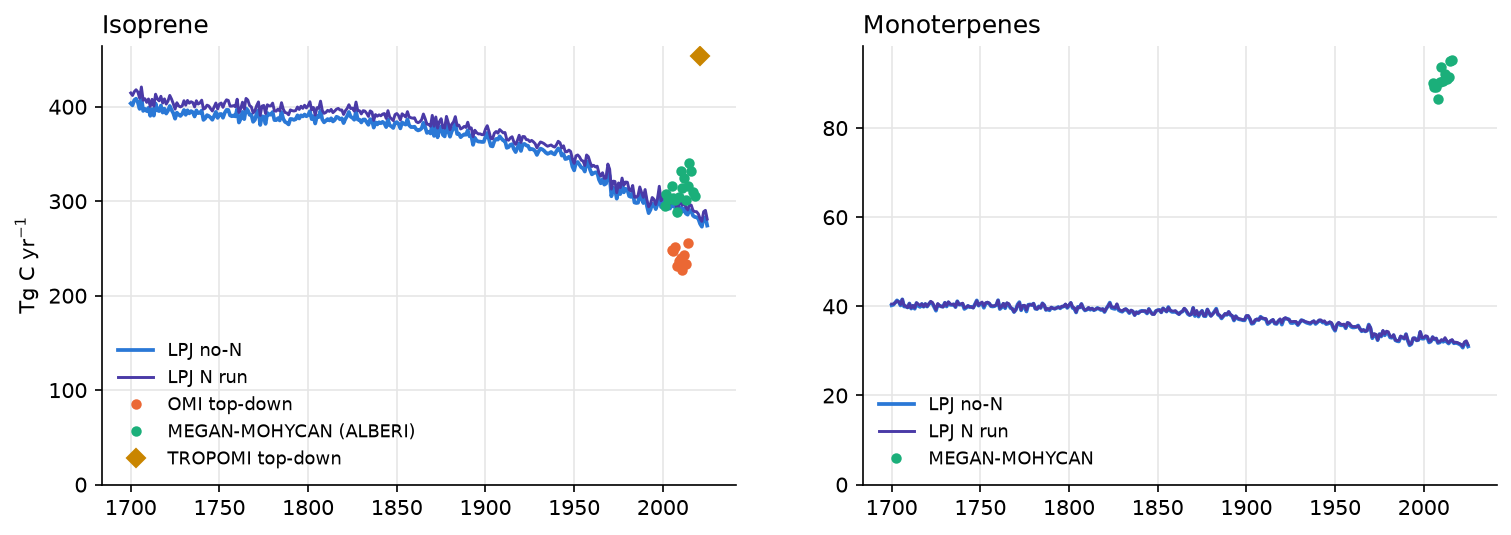
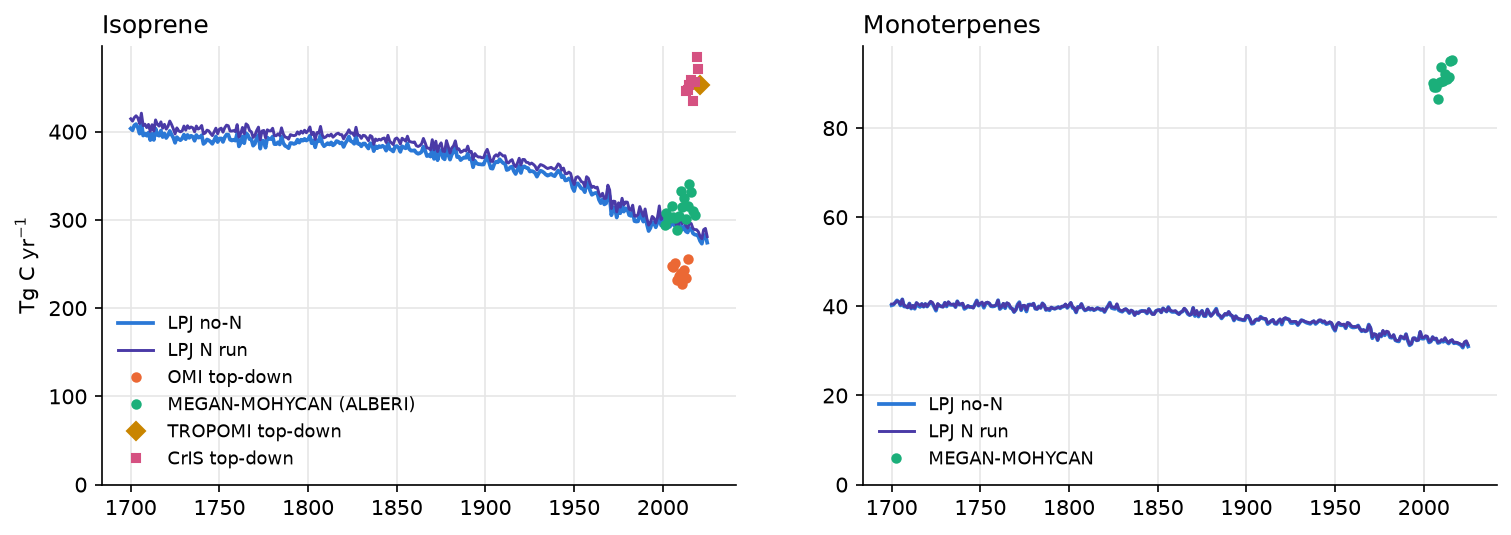
BVOC benchmark: add CrIS top-down isoprene (Li et al. 2025)
LPJ commit 9feb2f1b1769946033793f79b001812cc8c88733 (bvoc-benchmark).
CrIS/LMDZ-INCA isoprene 2013-2020: 456 Tg C/yr vs LPJ 286 (x0.63),
spatial r = 0.76 on the CrIS grid. Added to global, zonal, regional and
seasonal plots, plus a CrIS map comparison.

diff --git a/docs/results/bvoc.md b/docs/results/bvoc.md
@@ -20,11 +20,14 @@ for isoprene, seasonality. The emitted carbon is subtracted from GPP each day.
 | Tg C/yr, 2005–2014 | no-N | N run | Benchmark | no-N / benchmark |
 |---|---|---|---|---|
 | Isoprene | **291** | **297** | OMI top-down 240 · MEGAN-MOHYCAN 310 | 1.22 · 0.96 |
+| Isoprene, 2013–2020 | 286 | | CrIS top-down 456 | 0.63 |
 | Monoterpenes | **32.3** | **32.5** | MEGAN-MOHYCAN 90 | 0.36 |
 
-- **Isoprene is reasonable.** The total falls between the satellite top-down
-  estimate and the bottom-up inventory. Spatial r = 0.71 vs OMI and 0.82 vs
-  MEGAN. The peak month matches OMI in every region.
+- **Isoprene is reasonable.** The total falls between the OMI top-down
+  estimate and the bottom-up inventory, and at the low end of the three
+  satellite estimates (OMI 240, TROPOMI 453, CrIS 456 Tg C/yr). Spatial r =
+  0.71 vs OMI, 0.76 vs CrIS and 0.82 vs MEGAN. The peak month matches OMI in
+  every region.
 - **Monoterpenes are low**: about a third of MEGAN-MOHYCAN and below every
   published inventory (54–132 Tg C/yr). The total matches LPJ-GUESS
   (Schurgers et al. 2009: 29.6–31.8 Tg C/yr), whose scheme this follows. The
@@ -52,6 +55,7 @@ cover. Literature values in Tg of species are converted to carbon
 | LPJ, before GUESS alignment (`a64008b`) | 381 | different config (N, SPITFIRE, recycled 1850s climate) |
 | OMI top-down (Bauwens et al. 2016) | 240 | 2005–2014 |
 | TROPOMI top-down (Sfendla et al. 2025) | 453 | 2021 only |
+| CrIS top-down (Li et al. 2025) | 456 | 2013–2020 |
 | MEGAN-MOHYCAN / ALBERI (Opacka & Müller 2021) | 310 | 2005–2014 |
 | CAMS-GLOB-BIO v3.0–3.1 (Sindelarova et al. 2022) | 264–388 | 2000–2019 |
 | MEGAN (Guenther et al. 2006) | 440–660 | |
@@ -85,6 +89,13 @@ LPJ is higher than OMI over central Amazonia, the Congo basin and
 Borneo/New Guinea, and lower over eastern Australia and the cerrado. Tropical
 share of the global total: LPJ 75%, OMI 72%, MEGAN 78%.
 
+![Isoprene vs CrIS](../img/bvoc/cris_bench.png)
+
+CrIS comparison on the CrIS grid (LPJ 2010s regridded by cell overlap).
+Largest gaps, 2013–2020 (LPJ vs CrIS, Tg C/yr): Africa 71 vs 107, SE Asia &
+Maritime 38 vs 51, eastern US 10.4 vs 20.6. LPJ does not track CrIS
+year-to-year (r = −0.39).
+
 ![Monoterpenes vs benchmarks](../img/bvoc/mono_bench.png)
 
 Tropical share: LPJ 58%, MEGAN 72%. Boreal and temperate conifer regions are
@@ -98,7 +109,10 @@ Regions are lat/lon boxes (`REGIONS` in `code/process_lpj.py`).
 
 ![Regional totals](../img/bvoc/site_regions.png)
 
+CrIS bars are 2013–2020; the other bars are 2005–2014.
+
 - Australia is 2.6× below OMI (12 vs 31 Tg C/yr).
+- Eastern US is close to OMI (10.6 vs 9.9) but half of CrIS (20.6).
 - Europe is 1.5–2× high (9.7 vs 6.3 OMI, 4.9 MEGAN).
 - Amazonia monoterpenes are 5.6× below MEGAN (4.9 vs 27.5).
 
@@ -242,6 +256,9 @@ No-N run:
     - TROPOMI top-down isoprene, 2021 (doi:10.18758/52E4U9EN), 2°×2.5°.
     - ALBERI MEGAN2.1-MOHYCAN isoprene, 2001–2018 (doi:10.18758/71021062).
     - MEGAN-MOHYCAN monoterpenes, 2005–2016.
+- CrIS top-down isoprene, 2013–2020 (Li et al. 2025, ESSD 17:7035;
+  [doi:10.5281/zenodo.16214776](https://doi.org/10.5281/zenodo.16214776)),
+  1.27°×2.5°, kg C per cell per month.
 - Processing is one slurm array task per variable (`process_lpj.py`,
   `process_obs.py`, `process_pft.py`), then `make_maps.py`, `make_data.py` and
   `make_site_plots.py`.
